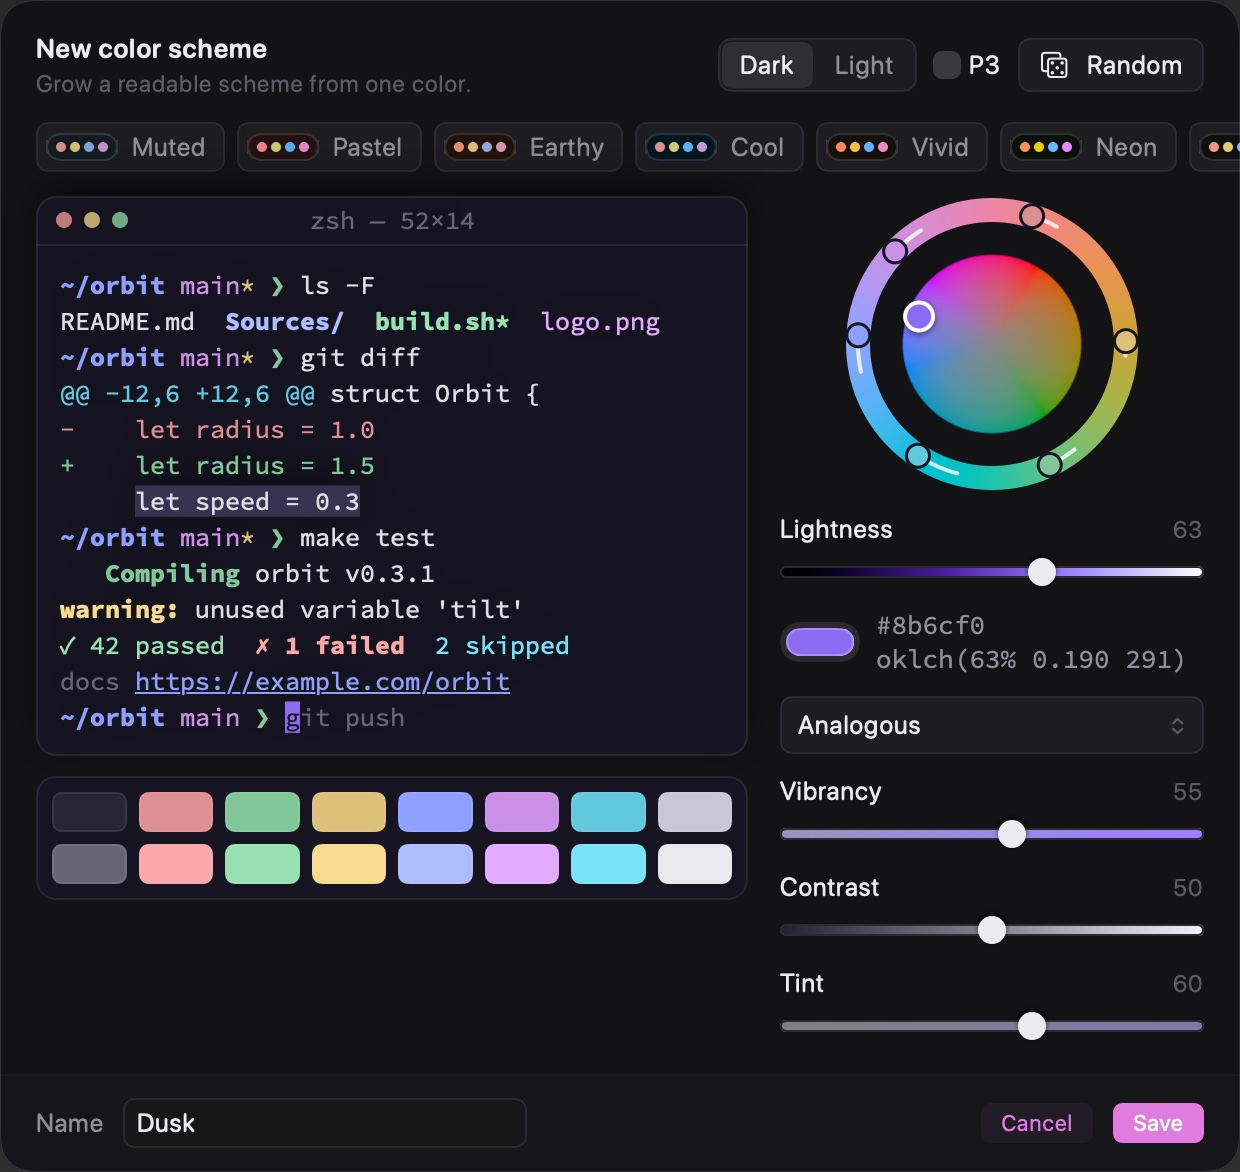
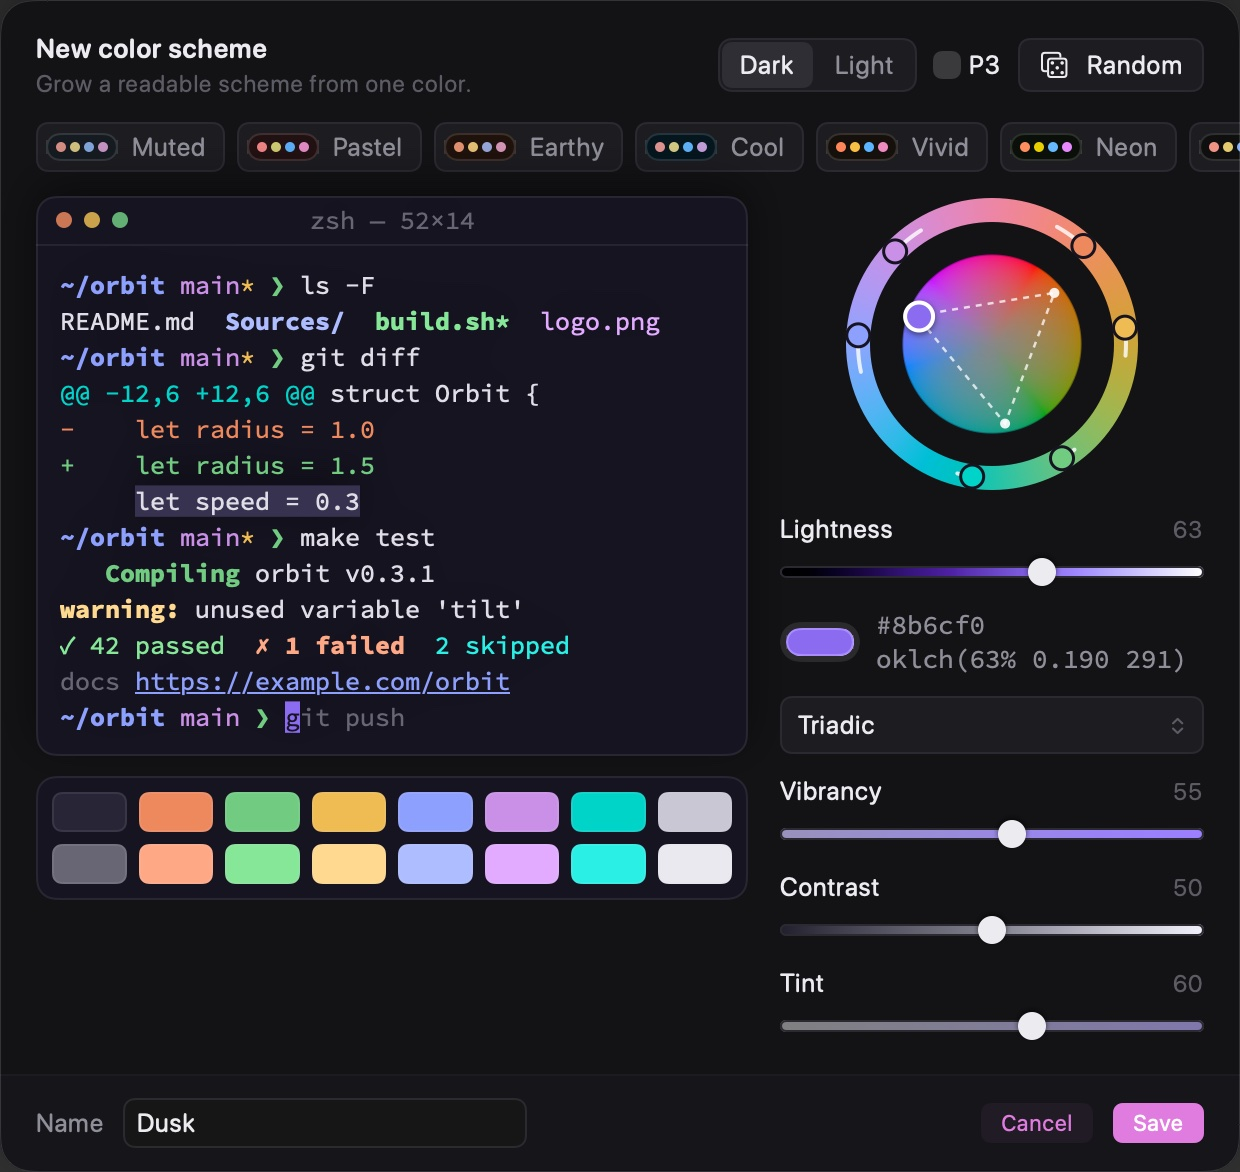
Landing page: theme colours on the theme buttons, triadic theme creator, brew command fits on phones

diff --git a/index.html b/index.html
@@ -247,6 +247,7 @@ h2 em { font-style: normal; color: var(--accent); }
 /* Pictures of different heights: the stack takes the shown one's, the others lie over it without taking room. */
 .stack.fit { position: relative; align-items: start; }
 .stack.fit picture[hidden] { position: absolute; inset: 0 0 auto 0; }
+.themes button.glow i { box-shadow: inset 0 0 0 1px rgba(255,255,255,.25), 0 0 8px #33ff55; }
 .themes button.creator i { background: conic-gradient(from 90deg, #f38ba8, #fab387, #f9e2af, #a6e3a1, #89dceb, #b4befe, #cba6f7, #f38ba8); }
 
 
@@ -293,7 +294,9 @@ footer .r { margin-left: auto; }
   .doctor pre { line-height: 1.2; }
   .seg { display: flex; }
   .seg button { flex: 1; padding: 9px 8px; }
-  .cmd-copy { width: 100%; font-size: 12.5px; gap: 10px; padding-left: 14px; }
+  /* The whole command on one line at any phone width: 42 monospace characters share what the box, $ and icon leave. */
+  .cmd-copy { width: 100%; font-size: clamp(9px, calc((100vw - 120px) / 26.5), 12.5px); letter-spacing: -.02em; gap: 8px; padding-left: 12px; }
+  .cmd-copy .icon { width: 30px; height: 30px; }
   .btn { width: 100%; justify-content: center; }
   /* Screenshots at a readable size: wider than the phone, scrolled sideways, opened at their focus (data-focus). */
   .shot, .frame { overflow-x: auto; overflow-y: hidden; overscroll-behavior-x: contain; scrollbar-width: none; -webkit-overflow-scrolling: touch; }
@@ -502,10 +505,10 @@ footer .r { margin-left: auto; }
       <div class="themes" role="group" aria-label="Preview a theme" data-stack="theme-stack">
         <button type="button" aria-pressed="true" data-show="oled" style="--sw:#000000"><i></i>OLED</button>
         <button type="button" aria-pressed="false" data-show="latte" style="--sw:#eff1f5"><i></i>catppuccin</button>
-        <button type="button" aria-pressed="false" data-show="spectrum" style="--sw:#222222"><i></i>monokai</button>
-        <button type="button" aria-pressed="false" data-show="vaporwave" style="--sw:#180827"><i></i>vaporwave</button>
-        <button type="button" aria-pressed="false" data-show="colorblind" style="--sw:#000000;--sw2:#feacd0"><i></i>colorblind</button>
-        <button type="button" aria-pressed="false" data-show="rootaccess" style="--sw:#030a04"><i></i>root access</button>
+        <button type="button" aria-pressed="false" data-show="spectrum" style="--sw:#fc618d;--sw2:#fce566"><i></i>monokai</button>
+        <button type="button" aria-pressed="false" data-show="vaporwave" style="--sw:#ff4fd8;--sw2:#fb923c"><i></i>vaporwave</button>
+        <button type="button" aria-pressed="false" data-show="colorblind" style="--sw:#2fafff;--sw2:#cabf00"><i></i>colorblind</button>
+        <button type="button" aria-pressed="false" data-show="rootaccess" style="--sw:#33ff55" class="glow"><i></i>root access</button>
         <button type="button" aria-pressed="false" data-show="creator" class="creator"><i></i>theme creator</button>
       </div>
     </div>
@@ -516,7 +519,7 @@ footer .r { margin-left: auto; }
       <picture data-name="vaporwave" data-focus="0.42" hidden data-caption="Vaporwave Sunset"><source srcset="img/K1-terminal-vaporwave.avif?v=09986960" type="image/avif"><img src="img/K1-terminal-vaporwave.jpg?v=0c1a0e89" width="960" height="480" loading="lazy" alt="Dispatch terminal in the Vaporwave Sunset scheme"></picture>
       <picture data-name="colorblind" data-focus="0.42" hidden data-caption="Modus Vivendi Deuteranopia"><source srcset="img/K1-terminal-colorblind.avif?v=eb33cc50" type="image/avif"><img src="img/K1-terminal-colorblind.jpg?v=5004e7e4" width="960" height="480" loading="lazy" alt="Dispatch terminal in the Modus Vivendi Deuteranopia scheme"></picture>
       <picture data-name="rootaccess" data-focus="0.42" hidden data-caption="Root Access, with its phosphor glow and scanlines"><source srcset="img/K1-terminal-rootaccess.avif?v=97a69e73" type="image/avif"><img src="img/K1-terminal-rootaccess.jpg?v=1833aa73" width="960" height="480" loading="lazy" alt="Dispatch terminal in the Root Access scheme"></picture>
-      <picture data-name="creator" data-focus="0.5" hidden data-caption="Theme creator: a readable scheme grown from one color, in OKLCH"><source srcset="img/K1-theme-creator.avif?v=16a56810" type="image/avif"><img src="img/K1-theme-creator.jpg?v=73d45663" width="1240" height="1172" loading="lazy" style="border-radius: 2.58% / 2.73%" alt="The theme creator: style chips, a live terminal preview with its sixteen colors, an OKLCH color wheel, and Lightness, Vibrancy, Contrast and Tint sliders"></picture>
+      <picture data-name="creator" data-focus="0.5" hidden data-caption="Theme creator: a readable scheme grown from one color, in OKLCH"><source srcset="img/K1-theme-creator.avif?v=647abb87" type="image/avif"><img src="img/K1-theme-creator.jpg?v=dad028d9" width="1240" height="1172" loading="lazy" style="border-radius: 2.58% / 2.73%" alt="The theme creator: style chips, a live terminal preview with its sixteen colors, an OKLCH color wheel with a triadic harmony, and Lightness, Vibrancy, Contrast and Tint sliders"></picture>
     </div>
     <p class="caption mono" data-caption-for="theme-stack">Dispatch (OLED)</p>
   </div>
